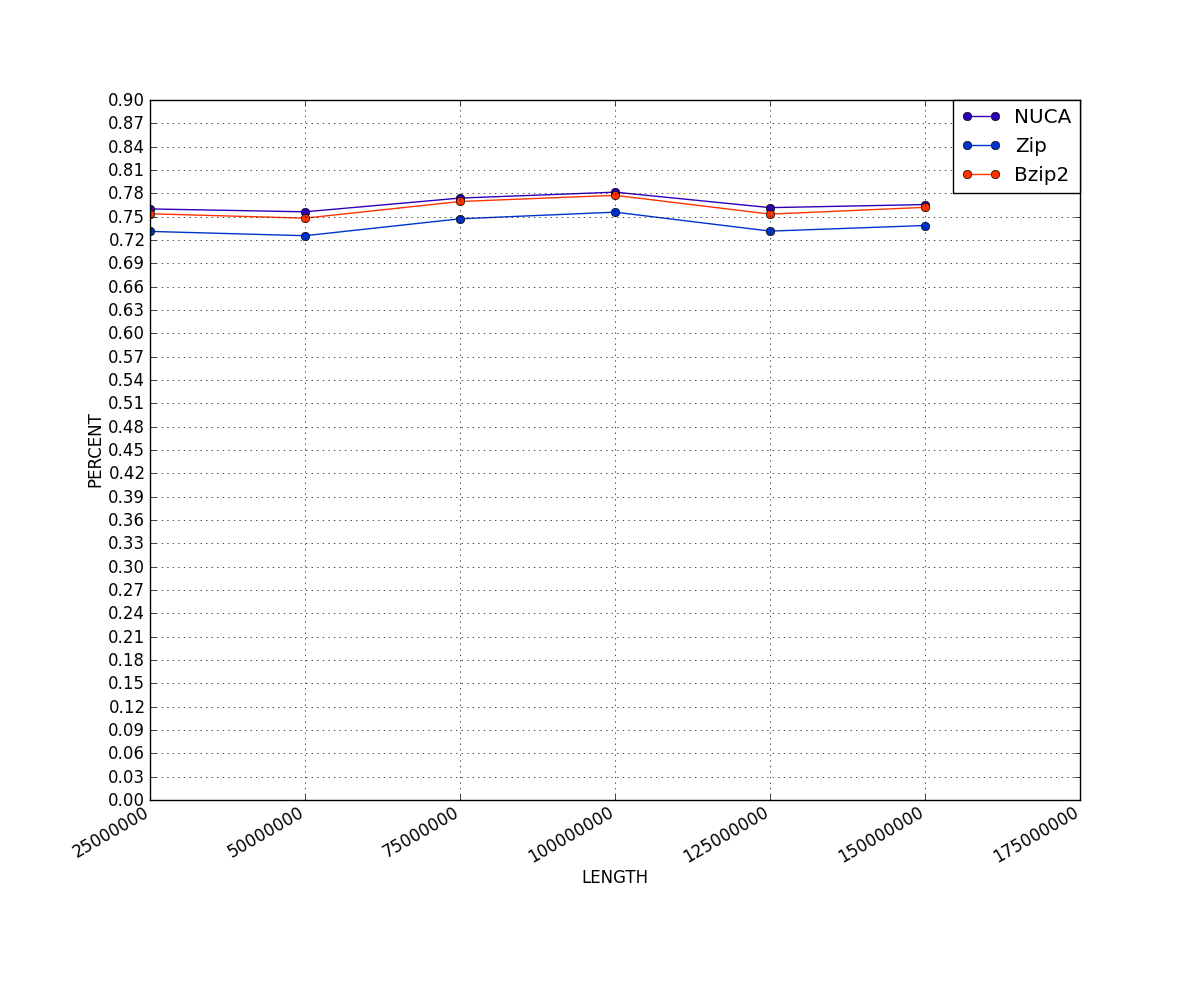
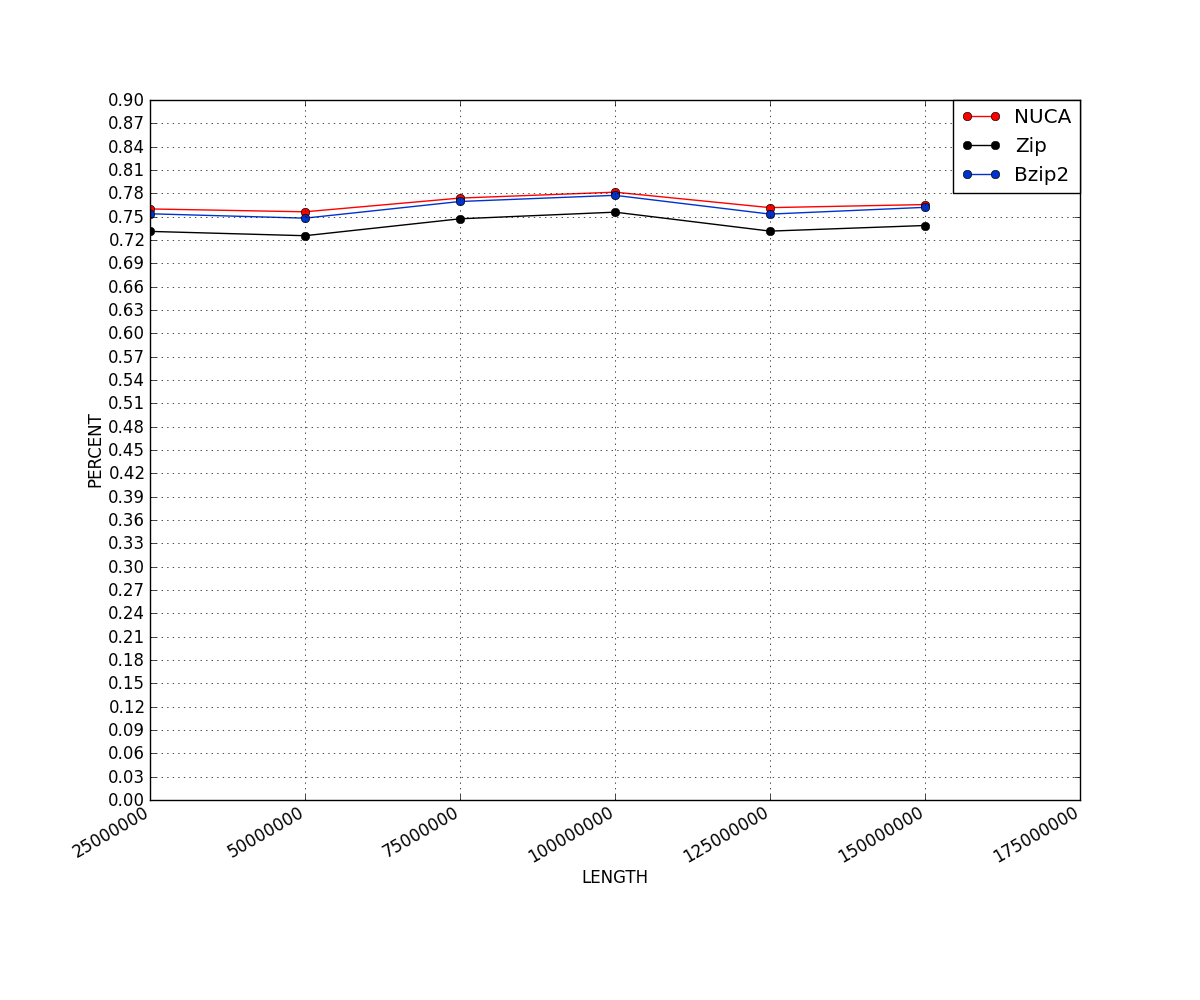
Changed colors

Changed region(s): [[0.2158, 0.186, 0.7708, 0.248], [0.8017, 0.093, 0.8325, 0.186], [0.1233, 0.186, 0.2158, 0.217]]

diff --git a/doc/data/generate_graphics.py b/doc/data/generate_graphics.py
@@ -11,9 +11,9 @@ def save_graphics (nuca_data, zip_data, bzip2_data, y_range, file_out, n, len_f,
 	x = numpy.arange (5, 5 * (n + 1), 5)
 	
 	ax = figure.add_subplot (111)
-	ax.plot (t, nuca_data, 'o-', label = "NUCA", color = '#2E00B8')
-	ax.plot (t, zip_data, 'o-', label = "Zip", color = '#0033CC')
-	ax.plot (t, bzip2_data, 'o-', label = "Bzip2", color = '#FF3300')
+	ax.plot (t, nuca_data, 'o-', label = "NUCA", color = 'r')
+	ax.plot (t, zip_data, 'o-', label = "Zip", color = '#000000')
+	ax.plot (t, bzip2_data, 'o-', label = "Bzip2", color = '#0033CC')
 	matplotlib.pyplot.yticks (y_range)
 	
 	ax.set_xlabel (x_label)
